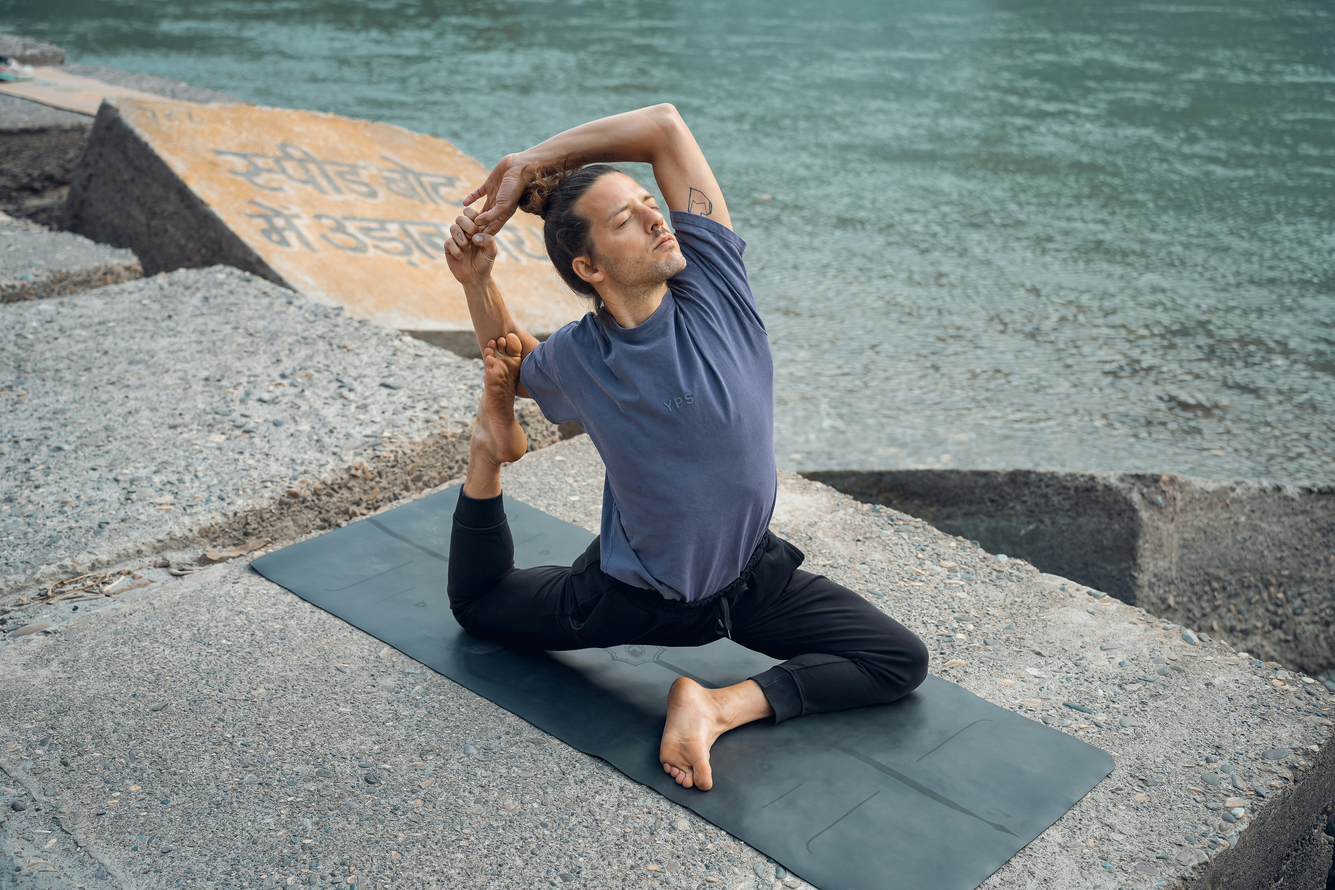
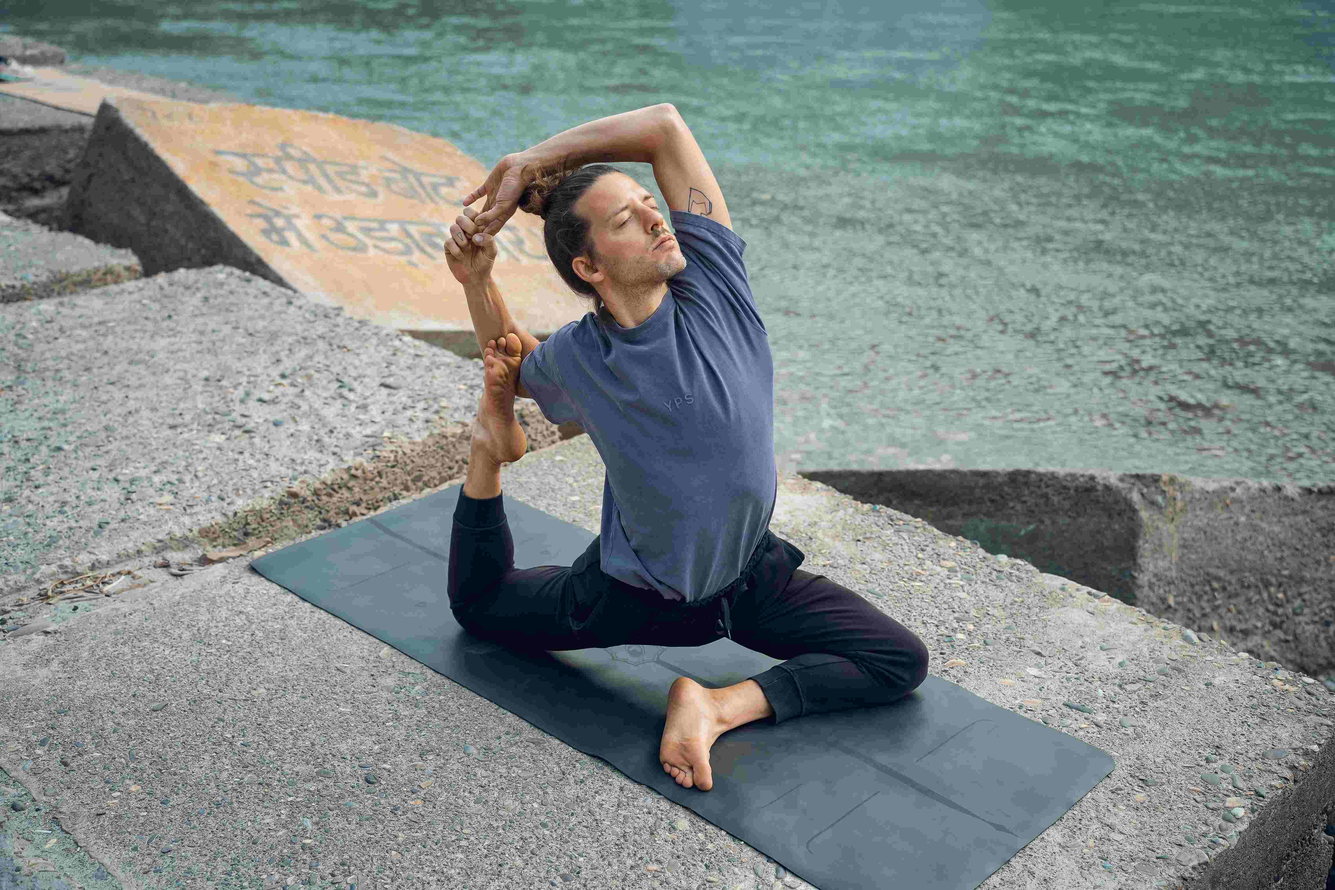
perf : optimized images. compressed and removed unused images.

diff --git a/frontend/index.html b/frontend/index.html
@@ -3,7 +3,7 @@
 
 <head>
   <meta charset="UTF-8" />
-  <link rel="icon" type="image/svg+xml" href="/src/assets//images/favicon.jpeg" />
+  <link rel="icon" type="image/svg+xml" href="/src/assets//images/favicon.png" />
   <meta name="viewport" content="width=device-width, initial-scale=1.0" />
   <script crossOrigin="anonymous" src="//unpkg.com/react-scan/dist/auto.global.js"></script>
   <title>Fit & Core</title>
